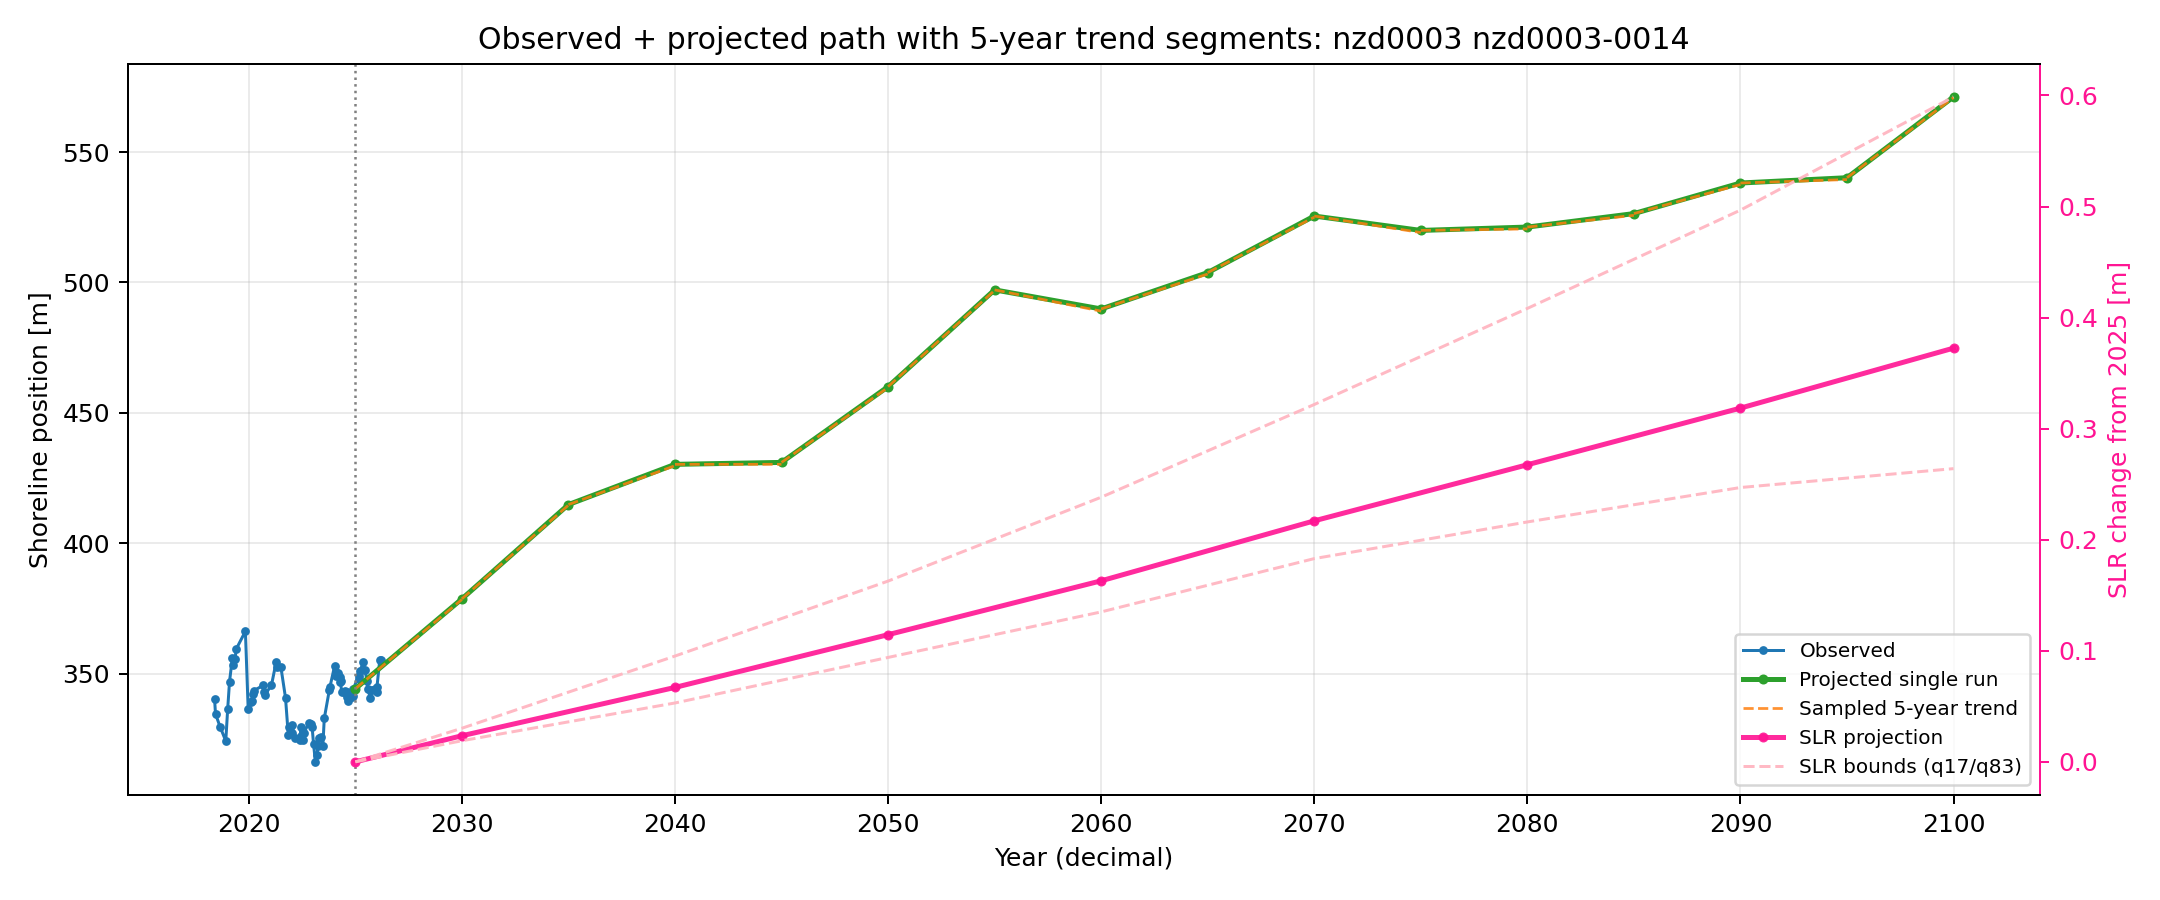
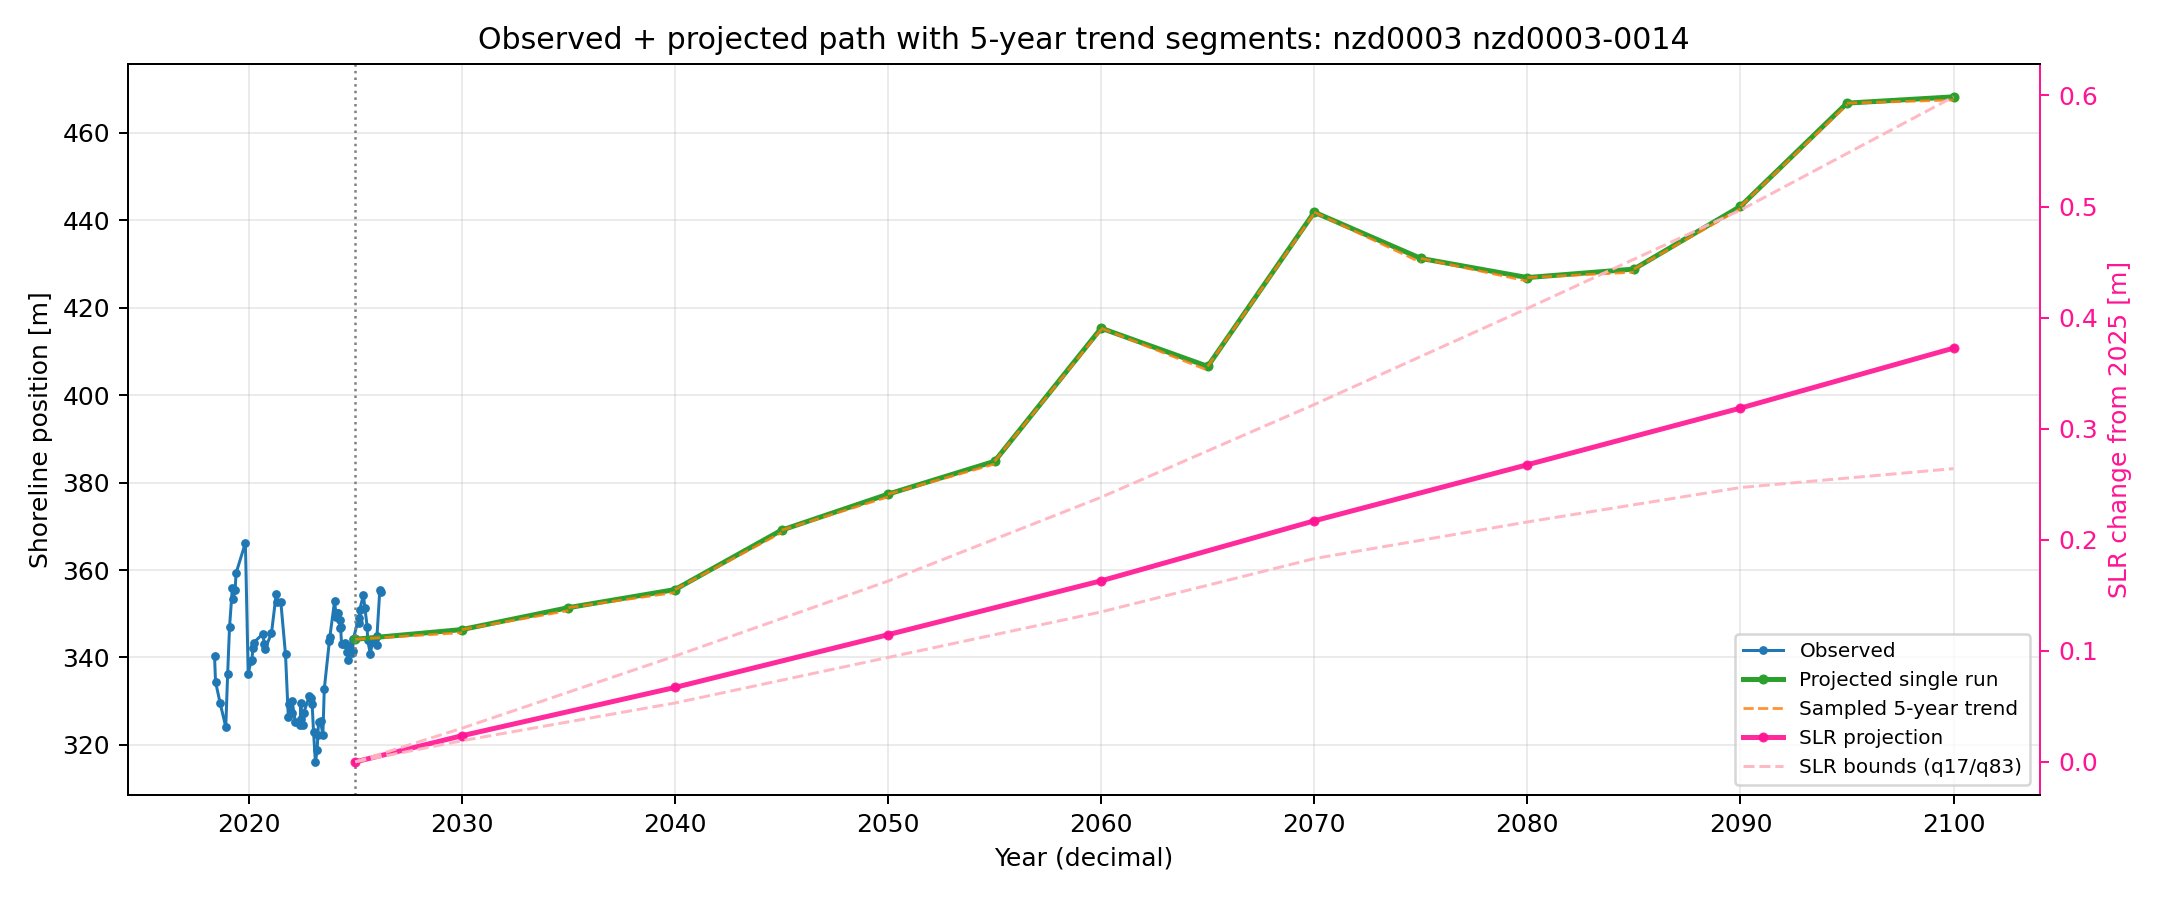
Dynamic gaussian weight 4 loess

diff --git a/trend_uncertainty.py b/trend_uncertainty.py
@@ -487,18 +487,6 @@ for site_id in nzd_sites_trial:
         y = df[transect_id]
 
 
-        # fig = plt.figure(figsize=(10, 4))
-        # plt.plot(t_years, y, "o-", label="Original data")
-        # plt.xlabel("Time (decimal years)")
-        # plt.ylabel("Shoreline position (m)")
-        # plt.title(f"{site_id} {transect_id} – Original shoreline time series")
-        # plt.legend()
-        # plt.xlim(t_years.min() , t_years.max() )
-        # plt.tight_layout()
-        # plt.savefig(site_dir / f"{site_id}_{transect_id}_original_timeseries.png", dpi=300)    
-        # plt.close()
-
-
         # Filter out NaN values (and corresponding time and date arrays)
         mask = np.isfinite(y)
         t_clean = t_years[mask].values
@@ -526,40 +514,60 @@ for site_id in nzd_sites_trial:
             continue
 
         import matplotlib.pyplot as plt
-        plt.plot(t_clean, y_clean, "o-", label="Filtered data") 
+
+#%
         # Apply LOESS smoothing to the cleaned time series.
         
-        plt.plot(t_clean, y_clean, "*-", label="Original data") 
-
         from loess.loess_1d import loess_1d
 
         t_loess, t_loess_grid, t_loess_origin = build_loess_time_grid(
             t_clean,
             n_grid=max(200, t_clean.size),
         )
+#%
 
-        plt.plot(t_loess, y_clean, "o-", label="Cleaned data")
+        # Dynamic frac based on 5-year window
+        target_window_years = 5.0
+        total_timespan_years = t_clean.max() - t_clean.min()
+        frac = target_window_years / total_timespan_years
+        frac = np.clip(frac, 0.1, 0.9)  # Keep within reasonable bounds
 
-#%%
         x_smooth, y_smooth, _ = loess_1d(
             t_loess,
             y_clean,
             xnew=t_loess_grid,
-            frac=0.4,
+            frac=frac,  # Dynamically set for ~5 year window
             degree=2,
         )
+
         t_smooth = x_smooth + t_loess_origin
 
+        fig = plt.figure()
         plt.plot(t_clean, y_clean, "*-", label="Original data") 
         plt.plot(t_smooth, y_smooth, "r-", label="LOESS smoothed")
-# ──────────────────────────────────────────────────────────────────────────
-#%%
+        plt.xlabel("Time (decimal years)")
+        plt.ylabel("Shoreline position (m)")
+        plt.title(f"{site_id} {transect_id} – LOESS smoothed shoreline")
+        plt.legend()
+        plt.tight_layout()
+        # plt.close()
+
+#%
+
+#%
         
         # Apply bootstrap and Monte Carlo functions
 
+        # boot_slopes = block_bootstrap_slopes(
+        #     t_clean, y_clean,
+        #     block_years= 3.0,
+        #     n_boot=1000,
+        #     random_state=seed
+        # )
+
         boot_slopes = block_bootstrap_slopes(
-            t_clean, y_clean,
-            block_years= 3.0,
+            t_smooth, y_smooth,
+            block_years= 5.0,
             n_boot=1000,
             random_state=seed
         )
@@ -848,5 +856,5 @@ if dy_df.empty:
 else:
     plot_uncertainty_summary(dy_df)
 
-
+print("Script completed.")
 # %%
